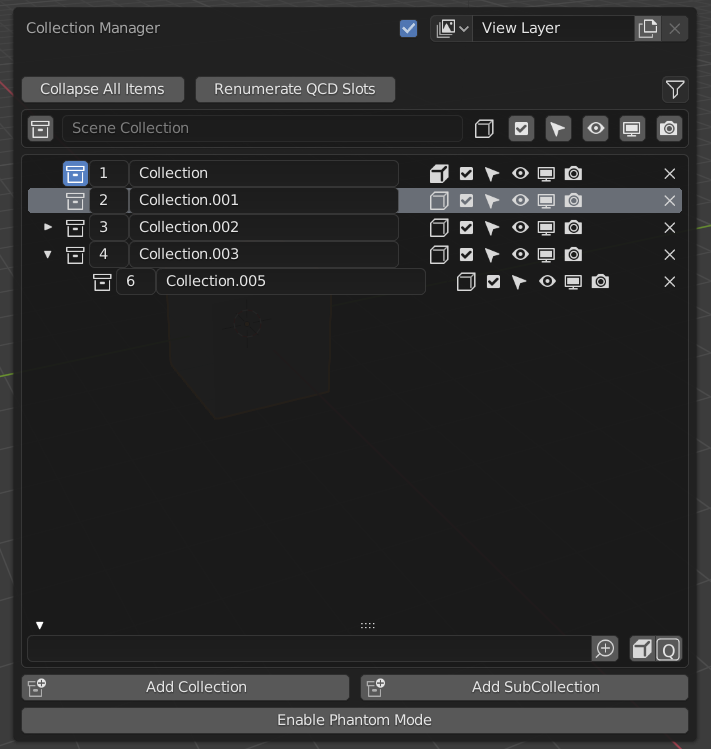
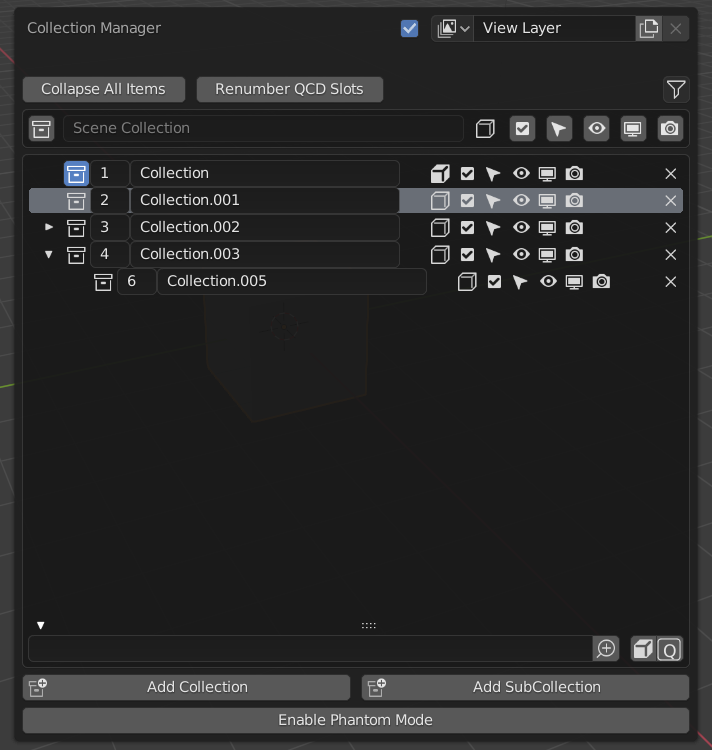
Collection Manager addon page:
Change Re-enumerate QCD Slots to Renumber QCD Slots (this matches the new name of the button)
and update its description with an explanation of breadth first search (including a link).

diff --git a/manual/addons/interface/collection_manager.rst b/manual/addons/interface/collection_manager.rst
@@ -38,11 +38,14 @@ View Layer
 Expand All Items
    Toggle all collections expanded or collapsed. Only enabled when you have subcollections.
 
-Re-enumerate QCD Slots
+Renumber QCD Slots
    Shown only if QCD is enabled in the preferences.
 
-   - :kbd:`LMB` -- Re-enumerate QCD slots in a breadth first pattern starting from the slot designated 1.
-   - :kbd:`Alt-LMB` -- Re-enumerate from the first top-level collection.
+   - :kbd:`LMB` -- Renumber the QCD slots from the root (the slot designated 1)
+     down to the bottom, for each depth level
+     (`breadth first search <https://en.wikipedia.org/wiki/Breadth-first_search>`_).
+   - :kbd:`Alt-LMB` -- Renumber from the first top-level collection in a
+     `breadth first search <https://en.wikipedia.org/wiki/Breadth-first_search>`_ pattern.
 
 Filter (funnel icon)
    Choose which restriction toggles are shown in the interface.
@@ -134,7 +137,7 @@ Phantom Mode
 
 QCD
 ---
- 
+
 The Quick Content Display system provides a way to rapidly interact with
 collections by allowing you to designate up to 20 collections as QCD slots.
 You can then interact with these slots by using hotkeys or the widget
@@ -224,7 +227,7 @@ QCD Move Widget:
          Opacity of the icons for selected (but not active) objects and unselected objects.
 
          .. note::
-         
+
             The values for icon alpha are not overrides and always affect the QCD Move Widget.
 
 .. admonition:: Reference
